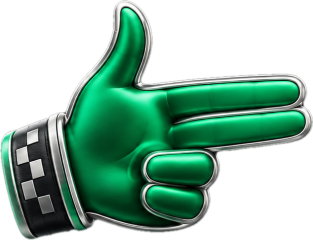
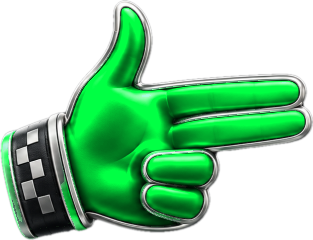
Respect hand and saved bookmark recoloured to the stamp's CX green

diff --git a/src/components/ActionIcons.tsx b/src/components/ActionIcons.tsx
@@ -59,8 +59,8 @@ export function BookmarkIcon({ size = 20, filled = false, playKey = 0, className
           <>
             <defs>
               <linearGradient id={`${uid}g`} x1="0" y1="0" x2="0" y2="1">
-                <stop offset="0" stopColor="#12e254" />
-                <stop offset="1" stopColor="#00a63a" />
+                <stop offset="0" stopColor="#22f066" />
+                <stop offset="1" stopColor="#00c43f" />
               </linearGradient>
               <linearGradient id={`${uid}c`} x1="0" y1="0" x2="1" y2="1">
                 <stop offset="0" stopColor="#f2f5f7" />
